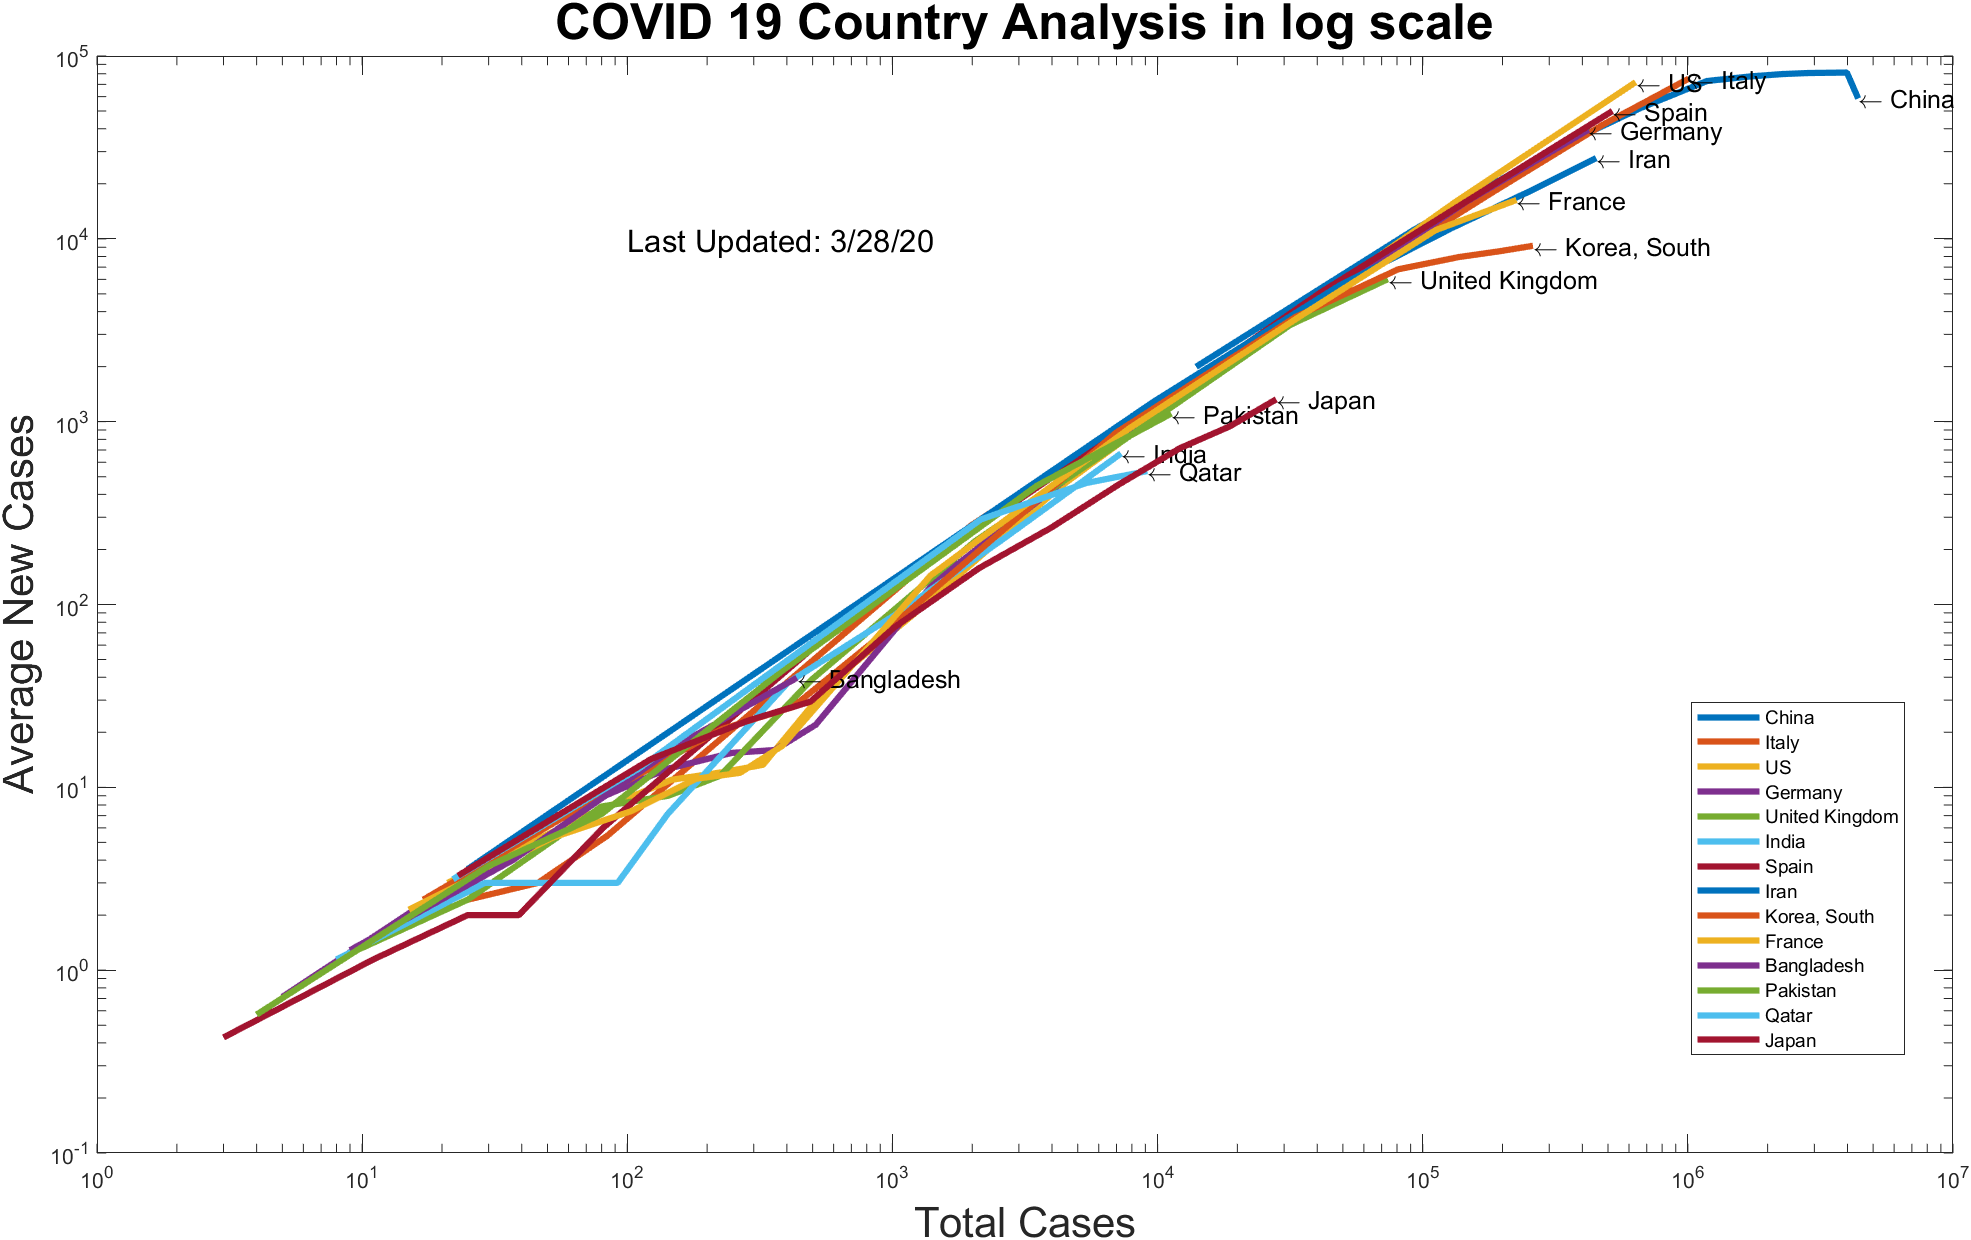
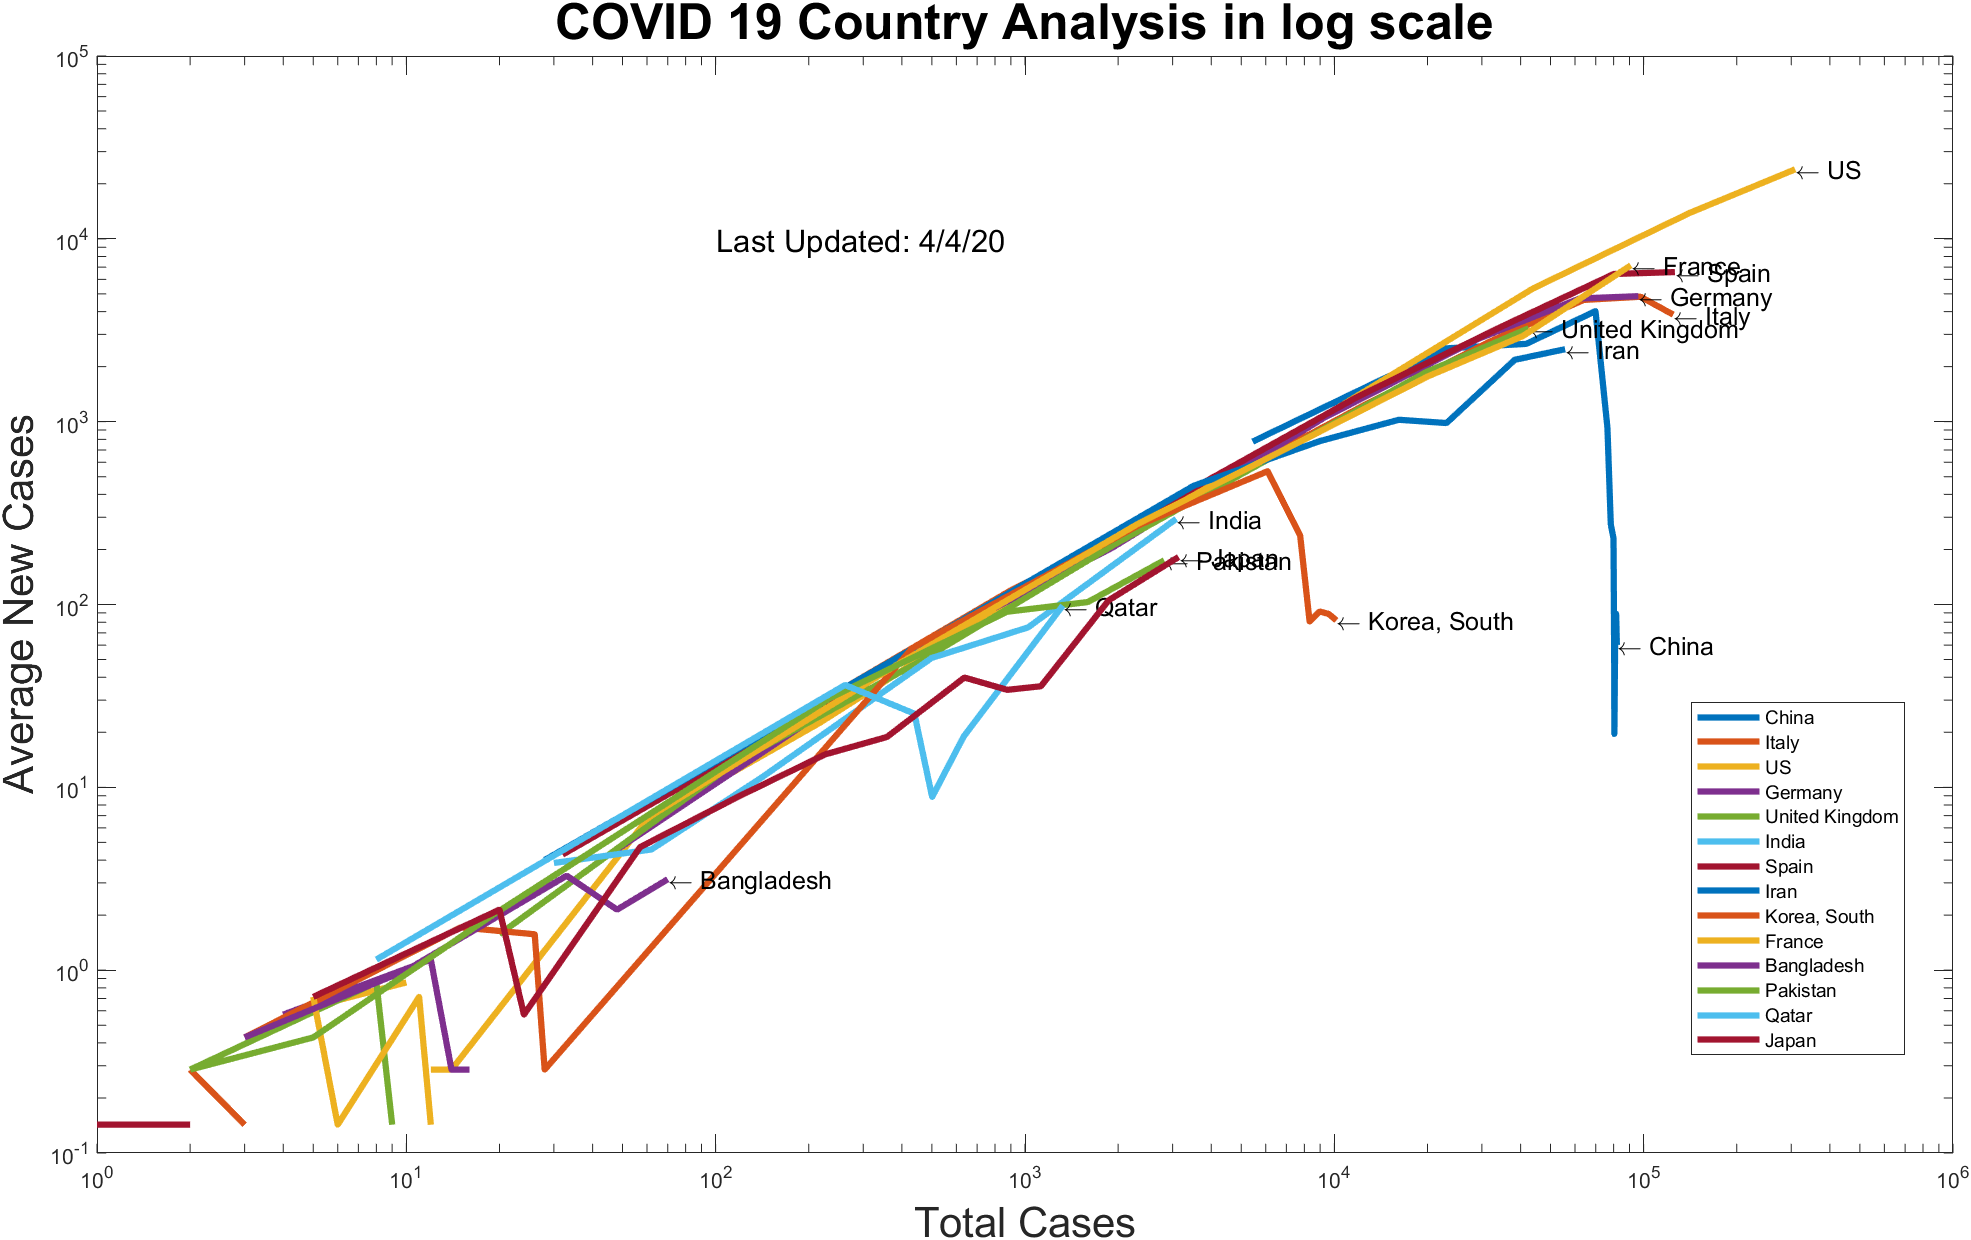
logic updated

diff --git a/covid19countryanalysis.m b/covid19countryanalysis.m
@@ -23,20 +23,19 @@ for n=1:countrynum
         end
     end
     if state>1
-        for m=5:shape1(1,2)-4
+        for m=5:shape1(1,2)
             dummy3=char(string(sum(str2double(table2array(result(dummy1:dummy2,m))))));
             result(dummy1,m)={dummy3};
         end
     end
-     %For starting from 1/22/20 (date= -1)
     increment=6;
     loopcount=floor((shape1(1,2)-4)/6);
     date=(shape1(1,2)-loopcount*increment)-increment;
     for i=1:loopcount
         date=date+increment;
         newcasesinaweek=str2double(table2array(result(country1,date:date+increment)));
-        totalcasesinaweek(1,i)=sum(newcasesinaweek);
-        averagenewcasesinaweek(1,i)=sum(newcasesinaweek)/7;
+        totalcasesinaweek(1,i)=newcasesinaweek(7)-newcasesinaweek(1);
+        averagenewcasesinaweek(1,i)=(newcasesinaweek(7)-newcasesinaweek(1))/7;
     end
     length2=length(totalcasesinaweek);
     for i=1:length2-1
@@ -55,11 +54,12 @@ for n=1:countrynum
     hold on
     length3=length(averagenewcasesinaweek);
     growthrate=averagenewcasesinaweek(length3)/averagenewcasesinaweek(length3-1);
-    growthratedisplay=append('Growth Rate of ',indicator1);
+    growthratedisplay=append('Case Growth Rate in ',indicator1);
     disp(growthratedisplay)
     disp(growthrate)
     state=0;
 end
+
 title('COVID 19 Country Analysis in log scale','FontSize', 24)
 xlabel('Total Cases','FontSize', 20)
 ylabel('Average New Cases','FontSize', 20)
